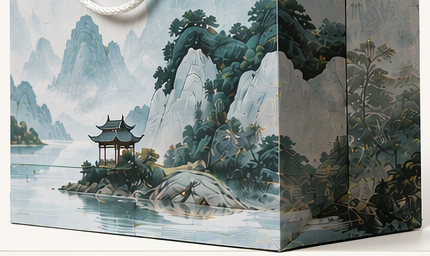
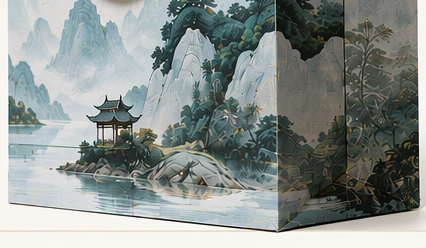
fix: remove cropped text residue from detail photos in 6-grid craftsmanship section

diff --git a/paper-bag-selection.html b/paper-bag-selection.html
@@ -753,7 +753,7 @@
               </div>
               <div class="mt-4 relative rounded-xl overflow-hidden aspect-[16/10] bg-forest-surface border border-[#E2DBD0]">
                 <img 
-                  src="/assets/images/selection/details/detail-01-diecut-hem.png?v=20261110_details_v1" 
+                  src="/assets/images/selection/details/detail-01-diecut-hem.png?v=20261110_details_clean_v3" 
                   alt="Precision Die-Cut & Hemmed Rim Paper Bag Mouth Construction" 
                   class="w-full h-full object-cover group-hover:scale-105 transition-transform duration-500" 
                   loading="lazy" 
@@ -775,7 +775,7 @@
               </div>
               <div class="mt-4 relative rounded-xl overflow-hidden aspect-[16/10] bg-forest-surface border border-[#E2DBD0]">
                 <img 
-                  src="/assets/images/selection/details/detail-02-4side-printing.png?v=20261110_details_v1" 
+                  src="/assets/images/selection/details/detail-02-4side-printing.png?v=20261110_details_clean_v3" 
                   alt="360 Degree 4-Sided Multi-Surface Offset Printing Registration" 
                   class="w-full h-full object-cover group-hover:scale-105 transition-transform duration-500" 
                   loading="lazy" 
@@ -797,7 +797,7 @@
               </div>
               <div class="mt-4 relative rounded-xl overflow-hidden aspect-[16/10] bg-forest-surface border border-[#E2DBD0]">
                 <img 
-                  src="/assets/images/selection/details/detail-03-eco-glue-bond.png?v=20261110_details_v1" 
+                  src="/assets/images/selection/details/detail-03-eco-glue-bond.png?v=20261110_details_clean_v3" 
                   alt="Industrial Eco-Glue Non-Splitting Reinforced Handle Patch Bonding" 
                   class="w-full h-full object-cover group-hover:scale-105 transition-transform duration-500" 
                   loading="lazy" 
@@ -819,7 +819,7 @@
               </div>
               <div class="mt-4 relative rounded-xl overflow-hidden aspect-[16/10] bg-forest-surface border border-[#E2DBD0]">
                 <img 
-                  src="/assets/images/selection/details/detail-04-concealed-ribbon.png?v=20261110_details_v1" 
+                  src="/assets/images/selection/details/detail-04-concealed-ribbon.png?v=20261110_details_clean_v3" 
                   alt="Concealed Ribbon Handle Anchoring Beneath Turn-Top Cuff" 
                   class="w-full h-full object-cover group-hover:scale-105 transition-transform duration-500" 
                   loading="lazy" 
@@ -841,7 +841,7 @@
               </div>
               <div class="mt-4 relative rounded-xl overflow-hidden aspect-[16/10] bg-forest-surface border border-[#E2DBD0]">
                 <img 
-                  src="/assets/images/selection/details/detail-05-square-baseplate.png?v=20261110_details_v1" 
+                  src="/assets/images/selection/details/detail-05-square-baseplate.png?v=20261110_details_clean_v3" 
                   alt="Rigid Square Baseplate Reinforcement with Geometric Folds" 
                   class="w-full h-full object-cover group-hover:scale-105 transition-transform duration-500" 
                   loading="lazy" 
@@ -863,7 +863,7 @@
               </div>
               <div class="mt-4 relative rounded-xl overflow-hidden aspect-[16/10] bg-forest-surface border border-[#E2DBD0]">
                 <img 
-                  src="/assets/images/selection/details/detail-06-export-polybag.png?v=20261110_details_v1" 
+                  src="/assets/images/selection/details/detail-06-export-polybag.png?v=20261110_details_clean_v3" 
                   alt="Moisture-Proof Sealed Poly Liner Inside Export Shipping Cartons" 
                   class="w-full h-full object-cover group-hover:scale-105 transition-transform duration-500" 
                   loading="lazy" 

diff --git a/public/paper-bag-selection.html b/public/paper-bag-selection.html
@@ -753,7 +753,7 @@
               </div>
               <div class="mt-4 relative rounded-xl overflow-hidden aspect-[16/10] bg-forest-surface border border-[#E2DBD0]">
                 <img 
-                  src="/assets/images/selection/details/detail-01-diecut-hem.png?v=20261110_details_v1" 
+                  src="/assets/images/selection/details/detail-01-diecut-hem.png?v=20261110_details_clean_v3" 
                   alt="Precision Die-Cut & Hemmed Rim Paper Bag Mouth Construction" 
                   class="w-full h-full object-cover group-hover:scale-105 transition-transform duration-500" 
                   loading="lazy" 
@@ -775,7 +775,7 @@
               </div>
               <div class="mt-4 relative rounded-xl overflow-hidden aspect-[16/10] bg-forest-surface border border-[#E2DBD0]">
                 <img 
-                  src="/assets/images/selection/details/detail-02-4side-printing.png?v=20261110_details_v1" 
+                  src="/assets/images/selection/details/detail-02-4side-printing.png?v=20261110_details_clean_v3" 
                   alt="360 Degree 4-Sided Multi-Surface Offset Printing Registration" 
                   class="w-full h-full object-cover group-hover:scale-105 transition-transform duration-500" 
                   loading="lazy" 
@@ -797,7 +797,7 @@
               </div>
               <div class="mt-4 relative rounded-xl overflow-hidden aspect-[16/10] bg-forest-surface border border-[#E2DBD0]">
                 <img 
-                  src="/assets/images/selection/details/detail-03-eco-glue-bond.png?v=20261110_details_v1" 
+                  src="/assets/images/selection/details/detail-03-eco-glue-bond.png?v=20261110_details_clean_v3" 
                   alt="Industrial Eco-Glue Non-Splitting Reinforced Handle Patch Bonding" 
                   class="w-full h-full object-cover group-hover:scale-105 transition-transform duration-500" 
                   loading="lazy" 
@@ -819,7 +819,7 @@
               </div>
               <div class="mt-4 relative rounded-xl overflow-hidden aspect-[16/10] bg-forest-surface border border-[#E2DBD0]">
                 <img 
-                  src="/assets/images/selection/details/detail-04-concealed-ribbon.png?v=20261110_details_v1" 
+                  src="/assets/images/selection/details/detail-04-concealed-ribbon.png?v=20261110_details_clean_v3" 
                   alt="Concealed Ribbon Handle Anchoring Beneath Turn-Top Cuff" 
                   class="w-full h-full object-cover group-hover:scale-105 transition-transform duration-500" 
                   loading="lazy" 
@@ -841,7 +841,7 @@
               </div>
               <div class="mt-4 relative rounded-xl overflow-hidden aspect-[16/10] bg-forest-surface border border-[#E2DBD0]">
                 <img 
-                  src="/assets/images/selection/details/detail-05-square-baseplate.png?v=20261110_details_v1" 
+                  src="/assets/images/selection/details/detail-05-square-baseplate.png?v=20261110_details_clean_v3" 
                   alt="Rigid Square Baseplate Reinforcement with Geometric Folds" 
                   class="w-full h-full object-cover group-hover:scale-105 transition-transform duration-500" 
                   loading="lazy" 
@@ -863,7 +863,7 @@
               </div>
               <div class="mt-4 relative rounded-xl overflow-hidden aspect-[16/10] bg-forest-surface border border-[#E2DBD0]">
                 <img 
-                  src="/assets/images/selection/details/detail-06-export-polybag.png?v=20261110_details_v1" 
+                  src="/assets/images/selection/details/detail-06-export-polybag.png?v=20261110_details_clean_v3" 
                   alt="Moisture-Proof Sealed Poly Liner Inside Export Shipping Cartons" 
                   class="w-full h-full object-cover group-hover:scale-105 transition-transform duration-500" 
                   loading="lazy" 

diff --git a/public/paper-bag-selection/index.html b/public/paper-bag-selection/index.html
@@ -753,7 +753,7 @@
               </div>
               <div class="mt-4 relative rounded-xl overflow-hidden aspect-[16/10] bg-forest-surface border border-[#E2DBD0]">
                 <img 
-                  src="/assets/images/selection/details/detail-01-diecut-hem.png?v=20261110_details_v1" 
+                  src="/assets/images/selection/details/detail-01-diecut-hem.png?v=20261110_details_clean_v3" 
                   alt="Precision Die-Cut & Hemmed Rim Paper Bag Mouth Construction" 
                   class="w-full h-full object-cover group-hover:scale-105 transition-transform duration-500" 
                   loading="lazy" 
@@ -775,7 +775,7 @@
               </div>
               <div class="mt-4 relative rounded-xl overflow-hidden aspect-[16/10] bg-forest-surface border border-[#E2DBD0]">
                 <img 
-                  src="/assets/images/selection/details/detail-02-4side-printing.png?v=20261110_details_v1" 
+                  src="/assets/images/selection/details/detail-02-4side-printing.png?v=20261110_details_clean_v3" 
                   alt="360 Degree 4-Sided Multi-Surface Offset Printing Registration" 
                   class="w-full h-full object-cover group-hover:scale-105 transition-transform duration-500" 
                   loading="lazy" 
@@ -797,7 +797,7 @@
               </div>
               <div class="mt-4 relative rounded-xl overflow-hidden aspect-[16/10] bg-forest-surface border border-[#E2DBD0]">
                 <img 
-                  src="/assets/images/selection/details/detail-03-eco-glue-bond.png?v=20261110_details_v1" 
+                  src="/assets/images/selection/details/detail-03-eco-glue-bond.png?v=20261110_details_clean_v3" 
                   alt="Industrial Eco-Glue Non-Splitting Reinforced Handle Patch Bonding" 
                   class="w-full h-full object-cover group-hover:scale-105 transition-transform duration-500" 
                   loading="lazy" 
@@ -819,7 +819,7 @@
               </div>
               <div class="mt-4 relative rounded-xl overflow-hidden aspect-[16/10] bg-forest-surface border border-[#E2DBD0]">
                 <img 
-                  src="/assets/images/selection/details/detail-04-concealed-ribbon.png?v=20261110_details_v1" 
+                  src="/assets/images/selection/details/detail-04-concealed-ribbon.png?v=20261110_details_clean_v3" 
                   alt="Concealed Ribbon Handle Anchoring Beneath Turn-Top Cuff" 
                   class="w-full h-full object-cover group-hover:scale-105 transition-transform duration-500" 
                   loading="lazy" 
@@ -841,7 +841,7 @@
               </div>
               <div class="mt-4 relative rounded-xl overflow-hidden aspect-[16/10] bg-forest-surface border border-[#E2DBD0]">
                 <img 
-                  src="/assets/images/selection/details/detail-05-square-baseplate.png?v=20261110_details_v1" 
+                  src="/assets/images/selection/details/detail-05-square-baseplate.png?v=20261110_details_clean_v3" 
                   alt="Rigid Square Baseplate Reinforcement with Geometric Folds" 
                   class="w-full h-full object-cover group-hover:scale-105 transition-transform duration-500" 
                   loading="lazy" 
@@ -863,7 +863,7 @@
               </div>
               <div class="mt-4 relative rounded-xl overflow-hidden aspect-[16/10] bg-forest-surface border border-[#E2DBD0]">
                 <img 
-                  src="/assets/images/selection/details/detail-06-export-polybag.png?v=20261110_details_v1" 
+                  src="/assets/images/selection/details/detail-06-export-polybag.png?v=20261110_details_clean_v3" 
                   alt="Moisture-Proof Sealed Poly Liner Inside Export Shipping Cartons" 
                   class="w-full h-full object-cover group-hover:scale-105 transition-transform duration-500" 
                   loading="lazy" 
